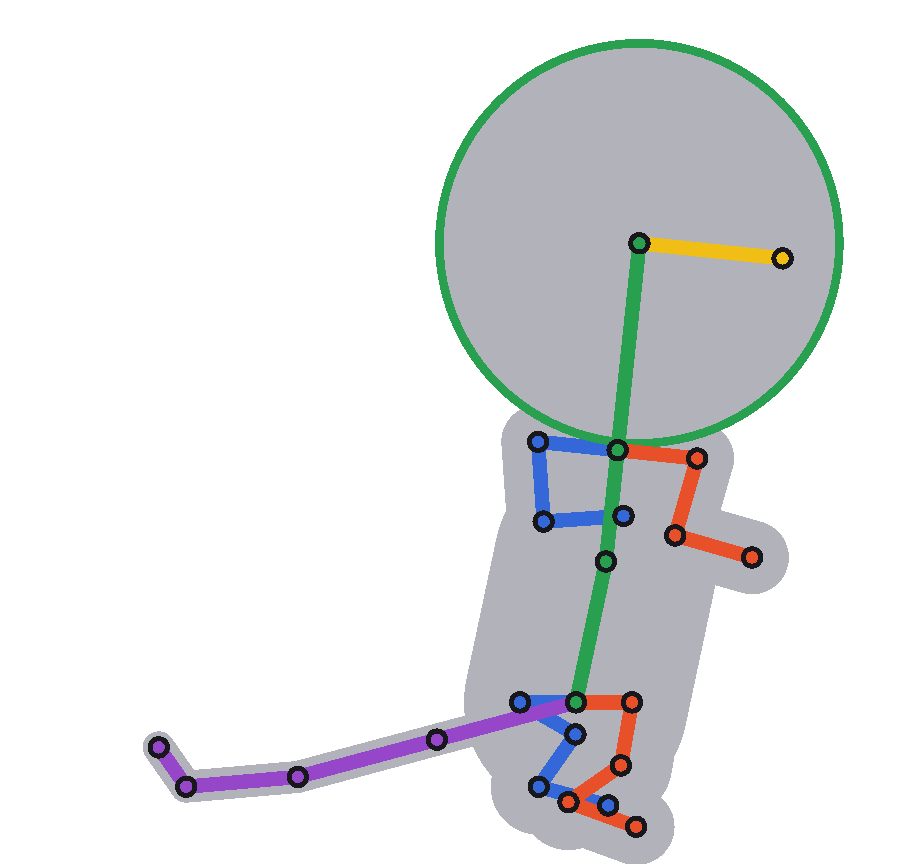
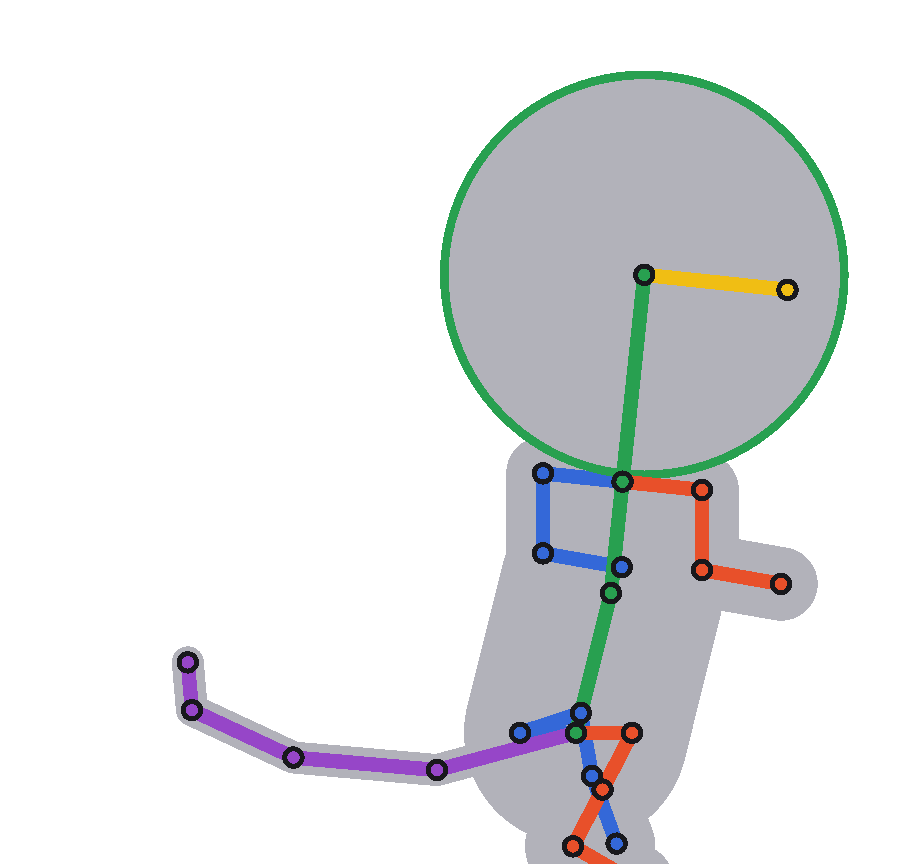
Animation: approve the rig first (rig.gif, rigApproved), pose by world directions and reach (IK); Pip's run posed again
Claude-Session: https://claude.ai/code/session_01Q3BUi73YBWJ2GXbmis6gA1

diff --git a/docs/ANIMATION.md b/docs/ANIMATION.md
@@ -157,3 +157,19 @@ with `"rigFrom": "pip-walk"`, and each names its PixelLab motion, `"motion"`):
 Each has a `preview.gif` in its `bakeoff/<anim>/pixellab-skeleton/`. Next: the owner approves them; the approved frames become the asset
 `pip`'s frames (walk1..8, run1..8, idle1..4, jump1..8) and `animFromAsset` plays them in the game.
 
+## The workflow: approve the motion on the rig first (2026-11-16)
+
+The owner, after the first run: "it does not fully loop. And looks wierd. Should I maybe first approve the rig animation ... before we send for AI
+generation?" Yes: the rig costs nothing to change, a drawing does. So:
+1. **Pose the keys** in `art/anims/<anim>.json`. Besides local angles, a key may now say `world` (a bone's direction on screen, 0 right, 90 down)
+   and `reach` (`{ ankle_near: { at: [x, y], bend: 'front', foot: 0 } }`: put a joint on an exact spot, the two bones above it bend to get
+   there, the toe lies at `foot` degrees); `resolvePose` in `rig-core.mjs` turns both into angles. A boot on the floor is `reach` with the floor's y.
+2. **Look at it playing**: every run of the bake-off (`--dry` too) writes `bakeoff/<anim>/guides/rig.gif`, the rig at the animation's speed over
+   the floor line (`tools/art/gif.mjs`, a small GIF writer). The owner says yes, or what to change.
+3. **Approve**: `"rigApproved": true` in the animation's JSON. The methods that draw from the rig (`pixellab-skeleton`, `openai-frame`,
+   `openai-strip`, `flux-frame`) refuse until then (`--unapproved` overrides, for tests and experiments).
+4. **Draw** it (PixelLab), look at the frames playing, approve them.
+
+The run was posed again this way: per half cycle contact (the front boot lands, placed on the floor), down, push (off the toe behind) and flight
+(both boots up), the arms swinging against the legs by their direction on screen. The first rig floated the front boot at contact and kept
+both hands in front of the body. It waits for the owner's approval of `pip-run/guides/rig.gif`.

diff --git a/docs/HISTORY.md b/docs/HISTORY.md
@@ -1599,6 +1599,12 @@ image-to-video may be tried, and frames are made at game size. All of it is in `
   height. In `games/spacewhiskers/NOTES.md` and `art/style/style.json`.
 - > "Lets just proceed with the other animations you had in mind" — Pip's run (8 frames), idle (4) and jump (8, once) drawn by PixelLab from rigs
   that share the walk's (`rigFrom`); the jump drawn twice (the first put the arms over the helmet). 12 generations of the trial in all.
+- > "Lets start with the running animation, it does not fully loop. And looks wierd. Should I maybe first approve the rig animation, if that is
+  > what you start with, before we send for AI generation?"
+
+  Yes: `rig.gif` (the rig playing, `tools/art/gif.mjs`) on every bake-off run, and `"rigApproved"` in each animation, which the drawing
+  methods wait for. Posing by `world` directions and `reach` targets (`resolvePose`, a two-bone IK); the run posed again with them (the boots
+  on the floor, the arms swinging against the legs), waiting for the owner's yes.
 
 ## Published versions (claude.ai artifact "Regolith Lander")
 

diff --git a/games/spacewhiskers/NOTES.md b/games/spacewhiskers/NOTES.md
@@ -54,6 +54,10 @@ How they are drafted, and why, is in `docs/ANIMATION.md`. In short: the owner's 
 between them (Wan 2.7 between two keys, ToonCrafter through all of them) or redraw the base sprite from the rig (PixelLab); the tools snap
 every frame to the game grid and palette, register it (feet on the ground, helmet over the idle's) and measure it; the owner picks.
 
+**The workflow for each animation**: pose the keys (`art/anims/<anim>.json`), look at `bakeoff/<anim>/guides/rig.gif` (written by
+`node tools/art/bakeoff.mjs spacewhiskers <anim> --dry`), the owner approves the motion (`"rigApproved": true`), then PixelLab draws it
+(`--methods pixellab-skeleton`); the drawing methods refuse an unapproved rig. Approved so far: the walk's rig.
+
 ## Names
 
 The game: *Space Whiskers: The Holy Cow* (the owner, 2026-11-16; the story and the cover still say "Star Whiskers" or "Space Mice").
